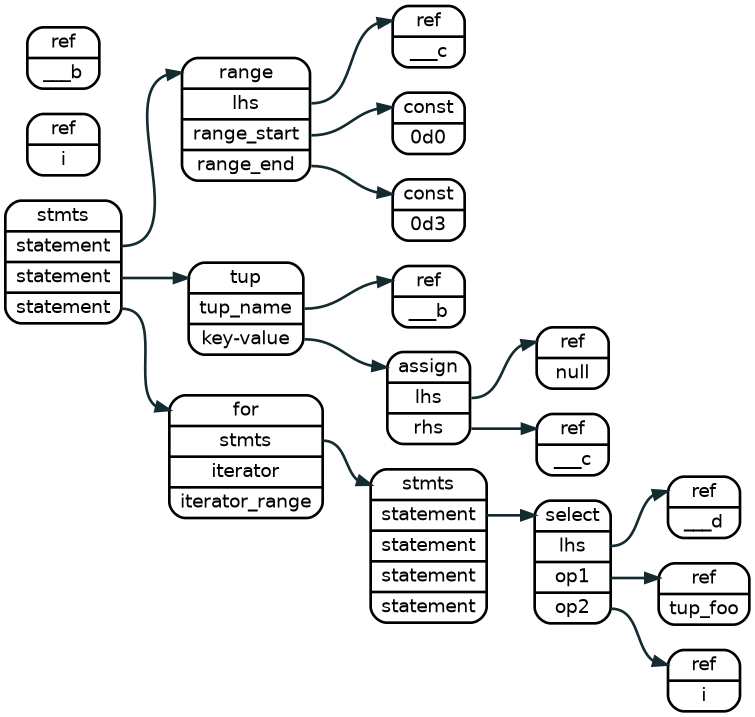
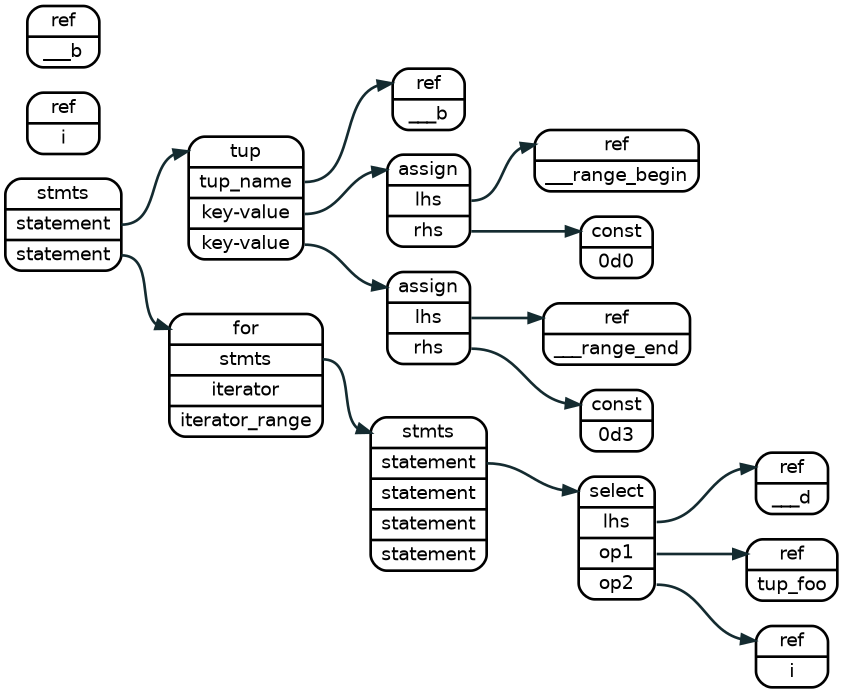
change range to a tuple tree

Changed region(s): [[0.0, 0.0, 1.0, 1.0]]

diff --git a/source/includes/_ntype.md b/source/includes/_ntype.md
@@ -418,7 +418,7 @@ auto idx_op5     = lnast->add_child(idx_assign, LNast_node::create_const (token_
 ![assign](source/graphviz/full_case_if.png)
 
 
-#!!!Tuple Statement (Akash?)
+#Tuple Statement
 ```coffescript
 // Pyrope
 tup = (foo = 1, bar = cat + 2)
@@ -441,6 +441,7 @@ end
 
 ```shell
 // CFG 
+// FIXME: SH: wait Akash to change tuple expression scope
 1       0       x       SEQ0
 4       1       x       0       33      +       ___d    cat     0d2
 2       1       x       TUP0    ___a
@@ -562,55 +563,56 @@ for i in (0..3) {
 
 ```shell
 // CFG 
+// FIXME: SH: still need to check with new CFG from Akash
 1       0       x       SEQ0
-2       1       x       0       48      ..      ___c    0d0     0d3
-3       1       x       TUP0    ___b
-4       3       x       0       48      =       null    ___c
-5       1       x       0       48      for     i       ___b
-7       5       x       SEQ1
-8       7       x       0       48      []      ___d    tup_foo i
-9       7       x       0       48      -       ___g    0d3     i
-10      7       x       0       48      []      ___f    tup_bar ___g
-11      7       x       0       48      =       ___d    ___f
+2       1       0       TUP0    ___b
+3       2       0       0       51      ..      ___c    0d0     0d3
+5       1       2       0       51      for     i       ___b
+7       5       0       SEQ1
+8       7       0       0       51      []      ___d    tuple_foo       i
+9       7       1       0       51      -       ___g    0d3     i
+10      7       2       0       51      []      ___f    tuple_bar       ___g
+11      7       3       0       51      .()     ___e    ___f
+12      7       4       0       51      =       ___d    ___e
 ```
 
 ```cpp
 //C++ 
-auto idx_range   = lnast->add_child(idx_stmts0, Lnast_node::create_range   (token_1));
-auto idx_lhs     = lnast->add_child(idx_range,  Lnast_node::create_ref     (token_2)); //string_view = "___c"
-auto idx_op1     = lnast->add_child(idx_range , Lnast_node::create_const   (token_3)); //string_view = "0d0"
-auto idx_op2     = lnast->add_child(idx_range , Lnast_node::create_const   (token_4)); //string_view = "0d3"
 
-auto idx_tup     = lnast->add_child(idx_stmts0, Lnast_node::create_tuple   (token_5)); 
-auto idx_tname   = lnast->add_child(idx_tup,    Lnast_node::create_ref     (token_6)); //string_view = "___b"
+auto idx_tup     = lnast->add_child(idx_stmts0, Lnast_node::create_tuple  (token_1)); 
+auto idx_tname   = lnast->add_child(idx_tup,    Lnast_node::create_ref    (token_2)); //string_view = "___b"
 
-auto idx_assign  = lnast->add_child(idx_tup,    Lnast_node::create_assign  (token_7));
-auto idx_lhs     = lnast->add_child(idx_assign, Lnast_node::create_ref     (token_8)); //string_view = "null"
-auto idx_op3     = lnast->add_child(idx_assign, Lnast_node::create_ref     (token_9)); //string_view = "___c"
+auto idx_assign  = lnast->add_child(idx_tup,    Lnast_node::create_assign (token_3));
+auto idx_lhs     = lnast->add_child(idx_assign, Lnast_node::create_ref    (token_4)); //string_view = "__range_begin"
+auto idx_op3     = lnast->add_child(idx_assign, Lnast_node::create_const  (token_5)); //string_view = "0d0"
 
-auto idx_for       = lnast->add_child(idx_stmts0, Lnast_node::create_for   (token_a));
-auto idx_stmts1    = lnast->add_child(idx_for,    Lnast_node::create_stmts (token_b)); 
-auto idx_itr       = lnast->add_child(idx_for,    Lnast_node::create_ref   (token_c)); //string_view = "i"
-auto idx_itr_range = lnast->add_child(idx_for,    Lnast_node::create_ref   (token_d)); //string_view = "___b"
+auto idx_assign  = lnast->add_child(idx_tup,    Lnast_node::create_assign (token_6));
+auto idx_lhs     = lnast->add_child(idx_assign, Lnast_node::create_ref    (token_7)); //string_view = "__range_end"
+auto idx_op3     = lnast->add_child(idx_assign, Lnast_node::create_const  (token_8)); //string_view = "0d3"
 
-auto idx_select  = lnast->add_child(idx_stmts1, Lnast_node::create_select  (token_e));  
-auto idx_lhs     = lnast->add_child(idx_select, Lnast_node::create_ref     (token_f)); //string_view = "___d"
-auto idx_op4     = lnast->add_child(idx_select, Lnast_node::create_ref     (token_g)); //string_view = "tup_foo"
-auto idx_op5     = lnast->add_child(idx_select, Lnast_node::create_ref     (token_h)); //string_view = "i"
+auto idx_for       = lnast->add_child(idx_stmts0, Lnast_node::create_for  (token_9));
+auto idx_stmts1    = lnast->add_child(idx_for,    Lnast_node::create_stmts(token_a)); 
+auto idx_itr       = lnast->add_child(idx_for,    Lnast_node::create_ref  (token_b)); //string_view = "i"
+auto idx_itr_range = lnast->add_child(idx_for,    Lnast_node::create_ref  (token_c)); //string_view = "___b"
 
-auto idx_minus   = lnast->add_child(idx_stmts1, Lnast_node::create_minus   (token_i));  
-auto idx_lhs     = lnast->add_child(idx_minus,  Lnast_node::create_ref     (token_j)); //string_view = "___g"
-auto idx_op6     = lnast->add_child(idx_minus,  Lnast_node::create_cond    (token_k)); //string_view = "0d3"
-auto idx_op7     = lnast->add_child(idx_minus,  Lnast_node::create_ref     (token_l)); //string_view = "i"
+auto idx_select  = lnast->add_child(idx_stmts1, Lnast_node::create_select (token_d));  
+auto idx_lhs     = lnast->add_child(idx_select, Lnast_node::create_ref    (token_e)); //string_view = "___d"
+auto idx_op4     = lnast->add_child(idx_select, Lnast_node::create_ref    (token_f)); //string_view = "tup_foo"
+auto idx_op5     = lnast->add_child(idx_select, Lnast_node::create_ref    (token_g)); //string_view = "i"
 
-auto idx_select  = lnast->add_child(idx_stmts1, Lnast_node::create_select  (token_m));  
-auto idx_lhs     = lnast->add_child(idx_select, Lnast_node::create_ref     (token_n)); //string_view = "___f"
-auto idx_op8     = lnast->add_child(idx_select, Lnast_node::create_ref     (token_o)); //string_view = "tup_bar"
-auto idx_op9     = lnast->add_child(idx_select, Lnast_node::create_ref     (token_p)); //string_view = "___g"
+auto idx_minus   = lnast->add_child(idx_stmts1, Lnast_node::create_minus  (token_h));  
+auto idx_lhs     = lnast->add_child(idx_minus,  Lnast_node::create_ref    (token_i)); //string_view = "___g"
+auto idx_op6     = lnast->add_child(idx_minus,  Lnast_node::create_cond   (token_j)); //string_view = "0d3"
+auto idx_op7     = lnast->add_child(idx_minus,  Lnast_node::create_ref    (token_k)); //string_view = "i"
 
-auto idx_assign  = lnast->add_child(idx_stmts1, Lnast_node::create_assign  (token_q));
-auto idx_lhs     = lnast->add_child(idx_assign, Lnast_node::create_ref     (token_r)); //string_view = "___d"
-auto idx_opa     = lnast->add_child(idx_assign, Lnast_node::create_ref     (token_s)); //string_view = "___f"
+auto idx_select  = lnast->add_child(idx_stmts1, Lnast_node::create_select (token_l));  
+auto idx_lhs     = lnast->add_child(idx_select, Lnast_node::create_ref    (token_m)); //string_view = "___f"
+auto idx_op8     = lnast->add_child(idx_select, Lnast_node::create_ref    (token_n)); //string_view = "tup_bar"
+auto idx_op9     = lnast->add_child(idx_select, Lnast_node::create_ref    (token_o)); //string_view = "___g"
+
+auto idx_assign  = lnast->add_child(idx_stmts1, Lnast_node::create_assign (token_p));
+auto idx_lhs     = lnast->add_child(idx_assign, Lnast_node::create_ref    (token_q)); //string_view = "___d"
+auto idx_opa     = lnast->add_child(idx_assign, Lnast_node::create_ref    (token_r)); //string_view = "___f"
 
 ```
 ![assign](source/graphviz/for.png)
